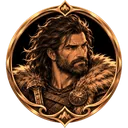
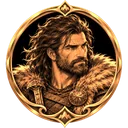
v215 : variantes visibles sur le plateau et teintes plus vives
Le fondu d'apparition copiait les matériaux sans l'effet de variante : la statue de Gliska
redevenait normale et les teintes s'estompaient. L'effet est maintenant conservé, les teintes
sont plus saturées (Ven Ardent plus rouge) et les portraits teintés sont régénérés.

Claude-Session: https://claude.ai/code/session_01EahjKovVvMCDr4PfVnyPFw

diff --git a/assets/portal-v159.js b/assets/portal-v159.js
@@ -7,7 +7,7 @@ let hasSavedProfile=false;let recovery=false;try{const raw=localStorage.getItem(
 function toast(s){$('portal-toast').textContent=s;$('portal-toast').hidden=false;clearTimeout(toast.timer);toast.timer=setTimeout(()=>$('portal-toast').hidden=true,5000)}
 function commit(next){try{validate(next);localStorage.setItem(KEY,JSON.stringify(next));profile=next;wallet();try{window.dispatchEvent(new Event('hackenia-profile-saved'))}catch{}return true}catch{toast('Sauvegarde impossible : aucune modification n’a été appliquée. Vérifiez le stockage du navigateur.');return false}}
 function saveDraft(){try{localStorage.setItem(DRAFT,JSON.stringify(draft))}catch{toast('Le brouillon ne peut pas être sauvegardé dans ce navigateur.')}}
-const shell=document.createElement('main');shell.id='portal';shell.innerHTML=`<header class="portal-head"><div class="portal-brand"><img class="hackenia-logo" src="assets/hackenia-logo-v112.svg?v=20261105-v163" alt="Dé arc-en-ciel dans une bulle transparente" width="80" height="80"><div class="portal-wordmark"><h1>HACKÉNIA</h1><small>Trading Dice Game · <span id="portal-build">v214</span></small></div><img class="hackenia-logo hackenia-logo-twin" src="assets/hackenia-logo-v112.svg?v=20261105-v163" alt="" aria-hidden="true" width="80" height="80"></div><button id="portal-back" class="portal-back" type="button" aria-label="Retour au menu" hidden>← Menu</button><div class="wallet"><span class="wallet-bubble" aria-hidden="true"><span class="wallet-bubble-bounce"><img src="assets/bubulle.webp" width="40" height="40" alt="" decoding="async"></span></span><div class="wallet-copy"><span id="portal-gold" role="status" aria-live="polite" aria-atomic="true"></span><small>Bubulles</small></div></div></header><nav id="portal-nav" aria-label="Menu principal"></nav><div id="portal-notice" role="status" aria-live="polite"></div><section id="portal-content" class="portal-section" tabindex="-1"></section><footer class="portal-bottom" id="profile-backup" hidden><span>Sauvegarde locale</span><div><button id="export-profile">Exporter ma sauvegarde</button> <button id="import-profile">Importer</button><input id="import-file" type="file" accept="application/json,.json" hidden></div></footer>`;document.body.prepend(shell);const dialog=document.createElement('dialog');dialog.id='portal-detail';dialog.setAttribute('aria-label','Fiche du dé');document.body.append(dialog);const notice=document.createElement('div');notice.id='portal-toast';notice.className='portal-toast';notice.hidden=true;notice.setAttribute('role','status');document.body.append(notice);
+const shell=document.createElement('main');shell.id='portal';shell.innerHTML=`<header class="portal-head"><div class="portal-brand"><img class="hackenia-logo" src="assets/hackenia-logo-v112.svg?v=20261105-v163" alt="Dé arc-en-ciel dans une bulle transparente" width="80" height="80"><div class="portal-wordmark"><h1>HACKÉNIA</h1><small>Trading Dice Game · <span id="portal-build">v215</span></small></div><img class="hackenia-logo hackenia-logo-twin" src="assets/hackenia-logo-v112.svg?v=20261105-v163" alt="" aria-hidden="true" width="80" height="80"></div><button id="portal-back" class="portal-back" type="button" aria-label="Retour au menu" hidden>← Menu</button><div class="wallet"><span class="wallet-bubble" aria-hidden="true"><span class="wallet-bubble-bounce"><img src="assets/bubulle.webp" width="40" height="40" alt="" decoding="async"></span></span><div class="wallet-copy"><span id="portal-gold" role="status" aria-live="polite" aria-atomic="true"></span><small>Bubulles</small></div></div></header><nav id="portal-nav" aria-label="Menu principal"></nav><div id="portal-notice" role="status" aria-live="polite"></div><section id="portal-content" class="portal-section" tabindex="-1"></section><footer class="portal-bottom" id="profile-backup" hidden><span>Sauvegarde locale</span><div><button id="export-profile">Exporter ma sauvegarde</button> <button id="import-profile">Importer</button><input id="import-file" type="file" accept="application/json,.json" hidden></div></footer>`;document.body.prepend(shell);const dialog=document.createElement('dialog');dialog.id='portal-detail';dialog.setAttribute('aria-label','Fiche du dé');document.body.append(dialog);const notice=document.createElement('div');notice.id='portal-toast';notice.className='portal-toast';notice.hidden=true;notice.setAttribute('role','status');document.body.append(notice);
 const tabs=[['play','Jouer','#ff343e',1],['quick','Partie rapide','#ff6b26',2],['pvp','PVP en ligne','#ff9f24',6],['shop','Boutique','#ffe347',3],['story','Histoire','#b5f234',4],['collection','Collection','#25dc78',5],['decks','Mes decks','#23dbd0',6],['challenges','Défis','#339bff',5],['options','Options','#6054ff',2],['pantheon','Le Panthéon','#b542ff',4]];
 const homeTips=["Pour gagner, tracez votre chemin grâce à vos dés pour rejoindre le camp ennemi","Vous pouvez aussi gagner en battant en duel 4 créatures adverses","Si vous ratez un jet de dés, un dé bonus vous est offert pour le suivant. Vous pouvez en garder deux et les lancer ensemble !","Un deck compte 10 dés. Chaque exemplaire ne peut y figurer qu’une fois ; vous pouvez toutefois le réutiliser dans vos autres decks.","Une victoire en mode Partie rapide avec les règles classiques vous offre 30 Bubulles !","Une défaite en Partie rapide ou dans le mode Jouer vous rapporte 5 Bubulles.","Votre créature apparaît sur la case marquée d’un liseré doré sur le schéma de son dé.","Vous pouvez taper sur l’astuce actuelle pour passer à l’astuce suivante !","Cliquez ou appuyez sur une créature en jeu pour voir sa puissance d’attaque et son élément. Cela peut être utile…","Vous ne pouvez pas poser un dé sur une créature.","Chaque jour, le dé Quotidien vous offre 30 Bubulles, et même 100 le 7e jour !","Un deck peut contenir au plus 1 dé divin, 1 légendaire, 2 dés Énergie et 4 rares.","Les dés élémentaires se posent sans lancer : parfaits pour prolonger un chemin vers le camp adverse.","Les dés de l’élément du terrain gagnent +1 en attaque : choisissez votre terrain avec soin !","Terminez le chapitre 1 de l’Histoire pour gagner la Bague chanceuse : un dé bonus au début de chaque duel contre l’IA.","Notez votre code de récupération (Options › Sauvegarde) pour retrouver votre progression sur un autre téléphone.","Le dé Annonces vous présente les dernières nouveautés du jeu."];
 let activeMatchMode=null;

diff --git a/index.html b/index.html
@@ -402,7 +402,7 @@ ELS.forEach((el,e)=>{const name='Rayon '+PURE_OF[el];M.push({n:name,cn:name,em:'
  M.push({el:'feu',lv:2,rarity:2,nd:1,need:3,t:0,fk:11,c:[[0,0,1],[0,1,2],[1,1,4],[1,2,3]]});
  const STONE='#cfc6b4',SILVER='#e4ebf2',GOLD='#f4c65a';
  [[3,'Orven du Givre','🐺','Cousin d’Orven venu des toundras : son pelage a blanchi sous le givre et ses crocs mordent comme le froid. Affinité Glace.','orven','orven-givre',{kind:'tint',color:'#a9dcff'}],
-  [5,'Ven Ardent','🔥','Le frère jumeau de Ven a choisi le brasier plutôt que la glace. Même menton haut, mais un caractère bien plus chaud. Affinité Feu.','ven','ven-ardent',{kind:'tint',color:'#ff9150'}],
+  [5,'Ven Ardent','🔥','Le frère jumeau de Ven a choisi le brasier plutôt que la glace. Même menton haut, mais un caractère bien plus chaud. Affinité Feu.','ven','ven-ardent',{kind:'tint',color:'#ff4a24'}],
   [64,'Max des Brumes','🌫','Perdu dans la brume des cimes, Max en est revenu léger comme une rafale… et toujours aussi bagarreur. Affinité Vent.','max','max-brumes',{kind:'tint',color:'#bff0d8'}],
   [65,'Velmarys des Marées','🌊','Velmarys a monté la garde sur les quais si longtemps que l’écume a teinté son armure. Affinité Eau.','velmarys','velmarys-marees',{kind:'tint',color:'#62b8ff'}],
   [6,'Bulbalina Orageuse','⚡','Quand l’orage gronde, les bulles de Bulbalina se chargent d’étincelles et éclatent en petits éclairs. Affinité Foudre.','bulbalina','bulbalina-orageuse',{kind:'tint',color:'#ffe070'}],
@@ -908,6 +908,6 @@ window.hackeniaGame={rows:H,cols:W,
  creatureAttack:pwc,previewBonus,fireVents:FIRE_VENTS,viewerSeat:()=>ONLINE?ONLINE.seat:ai?0:cur,
  snapshot:()=>({result:matchResult,movePlan,b,cr,cur,mode,pc,hov,die,rot,sel,anim,cubeCls,rzCur,cu,lastJ,over,ai,drag,dg,moved,terrain:TL[TER],blocked:TL[TER]==='feu'?FIRE_VENTS:[],preview:cells(),valid:cells().length?!!ok(cells()):false,reachable:mode==='i'&&sel?bfs(sel):null,tutorial:window.HackeniaTutorial?.targets?.()||null,...presentationBoard(),combat:window.HackeniaCombat?.current()}),isBlocked:blocked,power:pw,elementColors:EC,monsters:M,board:BQ,tap:(x,y)=>{tap(x,y);render()},refresh:render};
 init();
-</script><script src="assets/action-feedback-v168.js?v=20261105-v168"></script><script src="assets/bonus-fx-v211.js?v=20261112-v211b"></script><script src="assets/pouch-opening-v122.js?v=20261112-v212b"></script><script src="assets/pvp-config.js?v=20261109-v182"></script>
+</script><script src="assets/action-feedback-v168.js?v=20261105-v168"></script><script src="assets/bonus-fx-v211.js?v=20261112-v211b"></script><script src="assets/pouch-opening-v122.js?v=20261113-v215"></script><script src="assets/pvp-config.js?v=20261109-v182"></script>
 <script src="assets/pvp-online.js?v=20261112-v204"></script>
-<script src="assets/challenges-v180.js?v=20261111-v198"></script><script src="assets/equipment-v198.js?v=20261112-v207"></script><script src="assets/match-end-v198.js?v=20261111-v198"></script><script src="assets/portal-v159.js?v=20261113-v214"></script><script src="assets/news-v200.js?v=20261113-v214"></script><script src="assets/cloud-v204.js?v=20261112-v206"></script><script src="assets/story-data-v193.js?v=20261110-v193"></script><script src="assets/story-v193.js?v=20261111-v198"></script><script src="assets/night-sky-v190.js?v=20261110-v190"></script><script src="assets/tutorial-v178.js?v=20261112-v210"></script><script type="module" src="assets/clearing-v105.js?v=20261113-v214" onerror="document.getElementById('terrain-status').textContent='Affichage de secours · module 3D indisponible'"></script></body></html>
+<script src="assets/challenges-v180.js?v=20261111-v198"></script><script src="assets/equipment-v198.js?v=20261112-v207"></script><script src="assets/match-end-v198.js?v=20261111-v198"></script><script src="assets/portal-v159.js?v=20261113-v215"></script><script src="assets/news-v200.js?v=20261113-v215"></script><script src="assets/cloud-v204.js?v=20261112-v206"></script><script src="assets/story-data-v193.js?v=20261110-v193"></script><script src="assets/story-v193.js?v=20261111-v198"></script><script src="assets/night-sky-v190.js?v=20261110-v190"></script><script src="assets/tutorial-v178.js?v=20261112-v210"></script><script type="module" src="assets/clearing-v105.js?v=20261113-v215" onerror="document.getElementById('terrain-status').textContent='Affichage de secours · module 3D indisponible'"></script></body></html>

diff --git a/assets/clearing-v105.js b/assets/clearing-v105.js
@@ -2,7 +2,7 @@
 import * as THREE from 'https://cdn.jsdelivr.net/npm/three@0.170.0/build/three.module.js';
 import { orientBoardModel } from './model-facing.js?v=20261103-v73';
 import { createCrater } from './crater-v135.js?v=20261111-v195';
-import { applyLook } from './variant-look.js?v=20261112-v212';
+import { applyLook } from './variant-look.js?v=20261113-v215';
 
 const game=window.hackeniaGame, BH=game.rows||10, HZ=(BH-1)/2, ZS=BH/10, host=document.getElementById('bw'),homeParent=host.parentElement,homeNextSibling=host.nextElementSibling;
 let previewMode=false,previewTerrain=null;
@@ -490,7 +490,7 @@ const head=mesh(sphere,material,g);head.position.set(0,.62,-.04);head.scale.set(
 for(const x of[-.11,.11]){const ear=mesh(new THREE.ConeGeometry(.08,.26,5),gold,g);ear.position.set(x,.85,-.035);ear.rotation.z=-x*2;const eye=mesh(sphere,eyeMaterial,g);eye.position.set(x,.66,.155);eye.scale.set(.037,.046,.025)}
 const tail=mesh(new THREE.ConeGeometry(.09,.36,7),material,g);tail.position.set(0,.29,-.25);tail.rotation.x=-1;
 g.userData.k=k;pieces.add(g);attachCreatureModel(g,k);return g}
-function fadeObject(object,opacity){const bindings=object.userData.fadeBindings??=new Map(),materials=object.userData.fadeMaterials??=[];object.traverse(node=>{if(!node.material)return;let binding=bindings.get(node);if(!binding){const clone=material=>{const copy=material.clone();copy.transparent=true;copy.depthWrite=false;copy.userData.fadeOpacity=material.opacity;materials.push(copy);return copy};binding=Array.isArray(node.material)?node.material.map(clone):clone(node.material);bindings.set(node,binding)}node.material=binding});for(const material of materials)material.opacity=material.userData.fadeOpacity*opacity}
+function fadeObject(object,opacity){const bindings=object.userData.fadeBindings??=new Map(),materials=object.userData.fadeMaterials??=[];object.traverse(node=>{if(!node.material)return;let binding=bindings.get(node);if(!binding){const clone=material=>{const copy=material.clone();if(material.onBeforeCompile&&material.userData.hkLook){copy.onBeforeCompile=material.onBeforeCompile;copy.customProgramCacheKey=material.customProgramCacheKey;copy.userData.hkLook=true}/* v215 — garde l'effet de variante (statue, métal, teinte) */copy.transparent=true;copy.depthWrite=false;copy.userData.fadeOpacity=material.opacity;materials.push(copy);return copy};binding=Array.isArray(node.material)?node.material.map(clone):clone(node.material);bindings.set(node,binding)}node.material=binding});for(const material of materials)material.opacity=material.userData.fadeOpacity*opacity}
 function sync(){state=game.snapshot();const type=previewMode?previewTerrain:state.terrain;setActive(['terre','feu','glace','eau','vent','foudre'].includes(type),type);if(!active)return;updateFoliage();
  const live=new Set();for(let y=0;y<BH;y++)for(let x=0;x<8;x++){const c=state.b[y][x],key=x+','+y;if(!c)continue;live.add(key);let t=tiles.get(key);if(!t){const pivot=new THREE.Group();pieces.add(pivot);const solid=mesh(tileGeo,c.o?orange:green,pivot),top=new THREE.Mesh(topGeo,label(c.v,c.el));top.rotation.x=-Math.PI/2;pivot.add(top);t={pivot,solid,top};tiles.set(key,t)}
  const h=c.f?.035:.28;t.pivot.position.set(x-3.5,.22,y-HZ);t.pivot.rotation.set(0,0,0);t.solid.scale.y=h;t.solid.position.set(0,h/2,0);t.solid.material=c.o?orange:green;t.top.position.set(0,h+.004,0);t.top.visible=!c.f;t.top.material=label(c.v,c.el,Math.max(0,game.power(x,y)-c.v));t.c=c;t.x=x;t.y=y;t.an=state.anim?.o[key];}

diff --git a/assets/variant-look.js b/assets/variant-look.js
@@ -2,13 +2,13 @@
    autre teinte. Le shader désature la texture puis la colore ; les détails (visage, vêtements) restent visibles.
    look = {kind:'stone'|'metal'|'tint', color:'#rrggbb', amount?:0..1} */
 import * as THREE from 'three';
-export function applyLook(root,look){if(!root||!look)return;const kind=look.kind==='stone'?1:look.kind==='metal'?2:0,tint=new THREE.Color(look.color||(kind===1?'#b9b1a2':'#ffffff')),amount=look.amount??(kind===0?.7:1);
+export function applyLook(root,look){if(!root||!look)return;const kind=look.kind==='stone'?1:look.kind==='metal'?2:0,tint=new THREE.Color(look.color||(kind===1?'#b9b1a2':'#ffffff')),amount=look.amount??(kind===0?.92:1);
  root.traverse(o=>{if(!o.isMesh)return;const list=(Array.isArray(o.material)?o.material:[o.material]).map(m=>{const n=m.clone();
   if(kind===1){n.metalness=0;n.roughness=1}else if(kind===2){n.metalness=.95;n.roughness=.3;n.envMapIntensity=1.4}
   n.onBeforeCompile=sh=>{sh.uniforms.hkTint={value:tint};sh.uniforms.hkMix={value:amount};sh.uniforms.hkKind={value:kind};
    sh.fragmentShader=sh.fragmentShader.replace('#include <common>','#include <common>\nuniform vec3 hkTint;uniform float hkMix;uniform int hkKind;')
-    .replace('#include <map_fragment>','#include <map_fragment>\n{float l=dot(diffuseColor.rgb,vec3(.299,.587,.114));vec3 g=hkKind==2?vec3(pow(l,.8))*1.35:hkKind==1?vec3(.25+.75*l):vec3(l)*1.55;diffuseColor.rgb=mix(diffuseColor.rgb,g*hkTint,hkMix);}')};
-  n.customProgramCacheKey=()=>'hk-look-'+kind+'-'+amount;n.needsUpdate=true;return n});
+    .replace('#include <map_fragment>','#include <map_fragment>\n{float l=dot(diffuseColor.rgb,vec3(.299,.587,.114));vec3 g=hkKind==2?vec3(pow(l,.8))*1.35:hkKind==1?vec3(.3+.7*smoothstep(.05,.85,l)):vec3(pow(l,.85))*1.9;diffuseColor.rgb=mix(diffuseColor.rgb,g*hkTint,hkMix);}')};
+  n.customProgramCacheKey=()=>'hk-look-'+kind+'-'+amount+'-'+tint.getHexString();n.userData.hkLook=true;n.needsUpdate=true;return n});
   o.material=Array.isArray(o.material)?list:list[0]})}
 // Approximation pour <model-viewer> (pas de shader personnalisé) : couleur de base, métal et rugosité.
 export function applyLookToModelViewer(mv,look){if(!mv?.model||!look)return;const c=new THREE.Color(look.color||(look.kind==='stone'?'#b9b1a2':'#ffffff'));for(const m of mv.model.materials){const p=m.pbrMetallicRoughness;p.setBaseColorFactor([c.r,c.g,c.b,1]);if(look.kind==='stone'){p.setMetallicFactor(0);p.setRoughnessFactor(1)}else if(look.kind==='metal'){p.setMetallicFactor(.95);p.setRoughnessFactor(.3)}}}

diff --git a/assets/news-v200.js b/assets/news-v200.js
@@ -3,6 +3,7 @@
 const SEEN='hackenia-news-seen-v1';
 // Du plus récent au plus ancien. On reste général : pas de nom de personnage.
 const NEWS=[
+ {id:'v215',title:'Des variantes plus éclatantes',items:['Les statues, automates et personnages teintés gardent désormais leur apparence sur le plateau, avec des couleurs plus vives.']},
  {id:'v214',title:'Trois nouveaux personnages',items:['Nouveaux personnages animés en 3D : un commun et deux peu communs.','Nouveauté : les dés multi-élément reçoivent toujours le bonus de terrain, quel que soit le terrain, mais jamais le bonus de voisin.']},
  {id:'v213',title:'Des personnages pour tous les dés',items:['Les derniers dés sans personnage en reçoivent un : statues de pierre, automates d’argent pour les rares, idoles d’or pour les légendaires.','Les divins sont entourés d’une aura lumineuse sur le plateau.','Trois nouveaux dés rejoignent les bourses : deux communs et un peu commun.']},
  {id:'v212',title:'Des découvertes plus spectaculaires',items:['L’ouverture d’un nouveau dé est plus rapide et change selon sa rareté : bronze, argent, or, or ardent ou arc-en-ciel.','Nouveau décor étoilé pour les découvertes.']},

diff --git a/assets/pouch-opening-v122.js b/assets/pouch-opening-v122.js
@@ -1,6 +1,6 @@
 /* The pouch and the dice share one stage: the mouth is the actual launch origin. */
 (()=>{'use strict';const esc=s=>String(s).replace(/[&<>"']/g,c=>({'&':'&amp;','<':'&lt;','>':'&gt;','"':'&quot;',"'":'&#39;'}[c]));
-let invocationModule;const getInvocationModule=()=>invocationModule??=import('./invocation-v212.js?v=20261112-v212b');
+let invocationModule;const getInvocationModule=()=>invocationModule??=import('./invocation-v212.js?v=20261113-v215');
 const ELEMENT_GLYPHS={
 eau:'<path d="M12 2.7C9.3 6.8 4.8 11.5 4.8 16.1a7.2 7.2 0 0 0 14.4 0C19.2 11.5 14.7 6.8 12 2.7Z"/><path d="M7.3 15.8c1.1-1.3 2.2-1.3 3.3 0s2.2 1.3 3.3 0 2.2-1.3 3.1 0M9 19.2c1 .7 2 .9 3 .9"/>',
 feu:'<path d="M13.2 2.8c.5 3.2-.9 4.8-2.6 6.4-.2-1.6-1-2.8-2.2-3.7C8.2 9 4.5 11.6 4.5 16.2a7.5 7.5 0 0 0 15 0c0-4.5-2.6-7.3-6.3-13.4Z"/><path d="M12.3 12.2c.2 1.8-2.2 2.8-2.2 5a2 2 0 0 0 3.9.6c.4-1.2-.2-2.2-1.7-5.6Z"/>',

diff --git a/assets/invocation-v212.js b/assets/invocation-v212.js
@@ -2,7 +2,7 @@
 // or ardent / arc-en-ciel, finition du dé, cercles au sol, poussière, faisceau et éclat d'apparition.
 import * as THREE from 'three';
 import {invocationPalette} from './invocation-colors.js?v=166';
-import {applyLook} from './variant-look.js?v=20261112-v212';
+import {applyLook} from './variant-look.js?v=20261113-v215';
 import {invocationNormalization,invocationFrame} from './invocation-layout.js?v=20261103-v72';
 import {GLTFLoader} from 'https://cdn.jsdelivr.net/npm/three@0.170.0/examples/jsm/loaders/GLTFLoader.js';
 import {OrbitControls} from 'https://cdn.jsdelivr.net/npm/three@0.170.0/examples/jsm/controls/OrbitControls.js';
